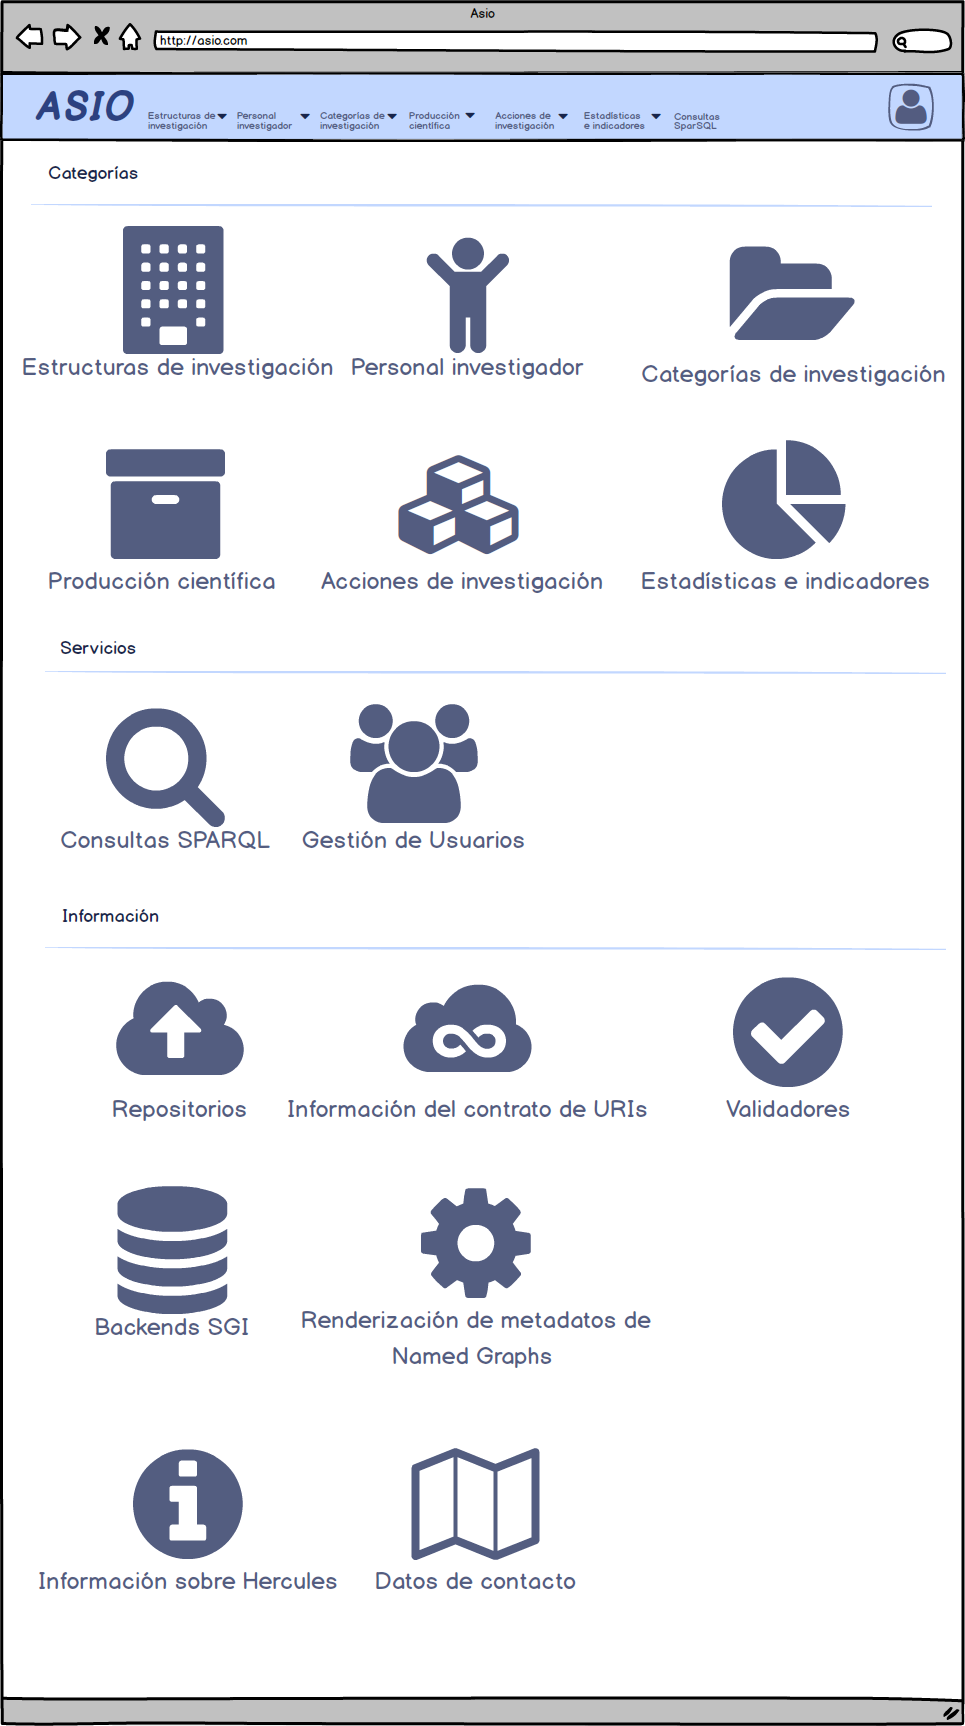
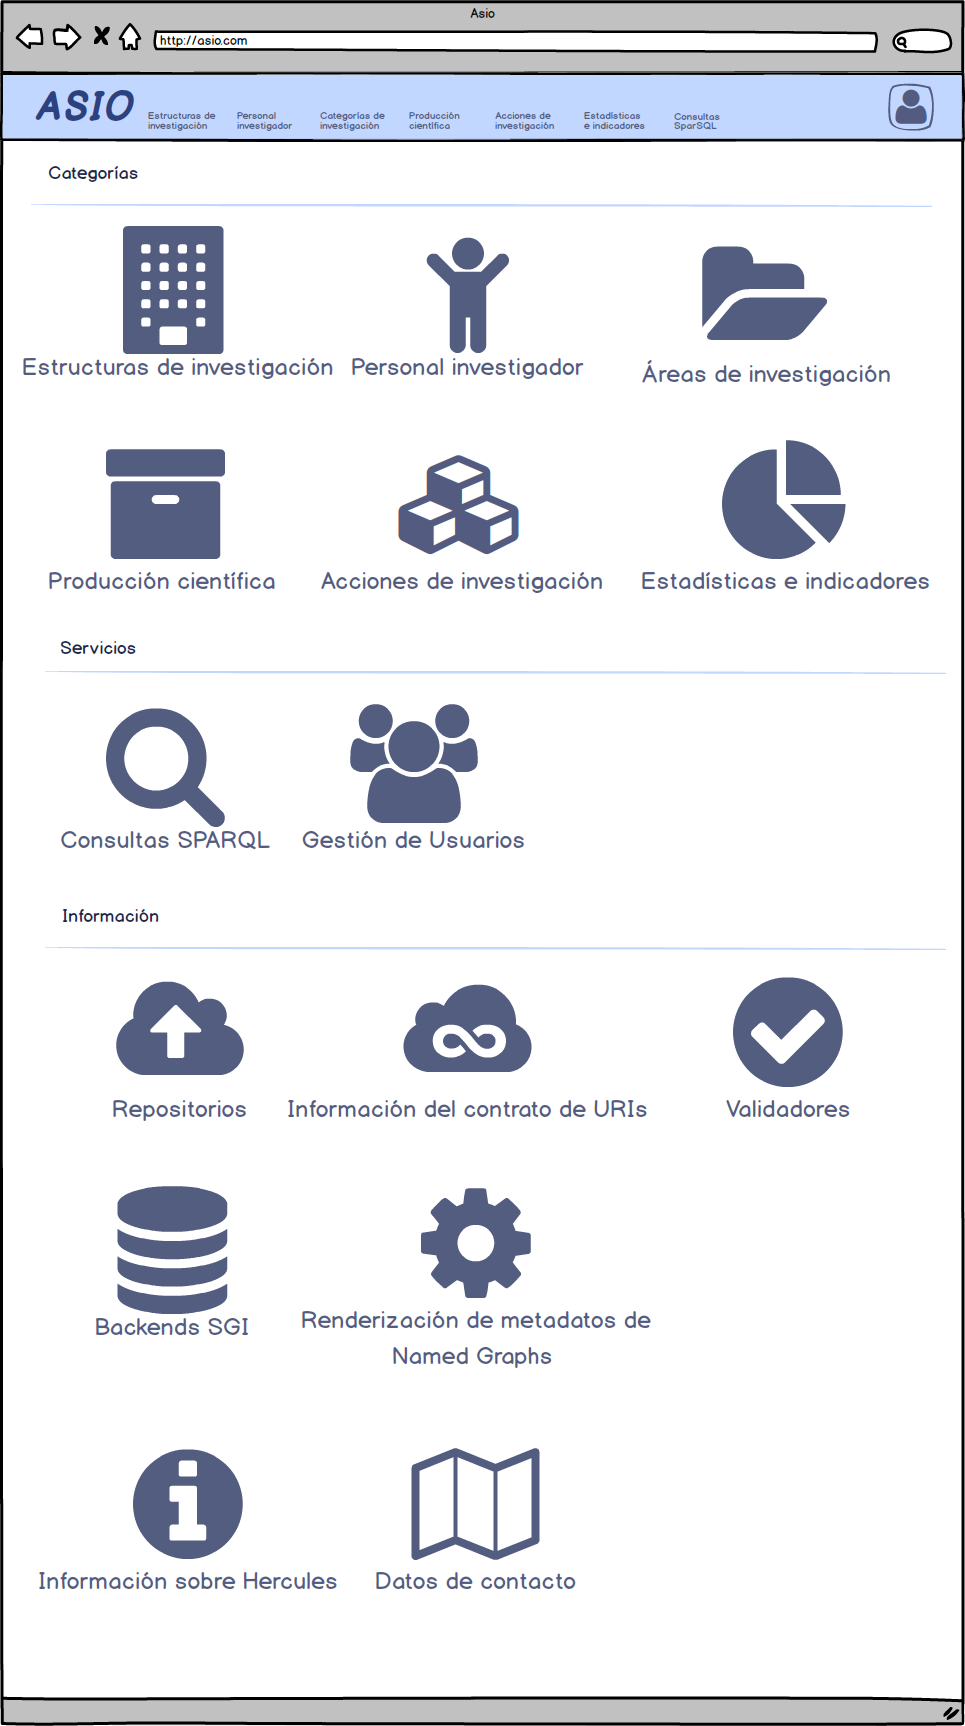
[SEMANTMURC-496] Creación de mocks de pantallas La categoría categorías, se cambia de nombre a areas, ya que por ahora sólo se va a mostrar esto

Changed region(s): [[0.6839, 0.1228, 0.9637, 0.2457]]

diff --git a/00-Análisis/Diseño de pantallas/Categorías y buscador.md b/00-Análisis/Diseño de pantallas/Categorías y buscador.md
@@ -22,9 +22,9 @@
 
 [2.3.1. Detalle de personal investigador](#detalle-de-personal-investigador)
 
-[2.4. Categorías](#categorías)
+[2.4. Áreas](#áreas)
 
-[2.4.1. Detalle de categoría](#detalle-de-categoría)
+[2.4.1. Detalle de área](#detalle-de-área)
 
 [2.5. Producción científica](#producción-científica)
 
@@ -46,11 +46,7 @@ Dentro del propio Home se podrán ver:
     - Fundaciones
     - Organismos
   - Personal investigador
-  - Categorías:
-    - Disciplinas
-    - áreas
-    - Líneas de investigación
-    - Tópicos (topics)
+  - Áreas de investigación
   - Producción científica
     - Congresos
     - Charlas
@@ -365,7 +361,7 @@ Se utilizan las siguientes preguntas de competencia para el diseño de la pantal
 
 
 
-# Categorías
+# Áreas
 
 
 
@@ -375,18 +371,18 @@ Se utilizan las siguientes preguntas de competencia para el diseño de la pantal
 
 Se utilizan las siguientes preguntas de competencia para el diseño de la pantalla:
 
-| Pregunta de competencia                                      |
-| ------------------------------------------------------------ |
-| CQ20. Como usuario necesito detectar tendencias en áreas y líneas investigación a partir de los datos disponibles en Hércules. |
-| CQ08. Como usuario requiero comparar comunidades autónomas, universidades, grupos de investigación, etc. en determinados tópicos para identificar cuál es el más competitivo y por qué. |
-|                                                              |
-|                                                              |
+| Pregunta de competencia                                      | Queries                                                      |
+| ------------------------------------------------------------ | ------------------------------------------------------------ |
+| CQ20. Como usuario necesito detectar tendencias en áreas y líneas investigación a partir de los datos disponibles en Hércules. | [query1](https://tinyurl.com/y8hw5ka4)<br />[query2](https://tinyurl.com/yc6u4kk4) |
+| CQ08. Como usuario requiero comparar comunidades autónomas, universidades, grupos de investigación, etc. en determinados tópicos para identificar cuál es el más competitivo y por qué. |                                                              |
+|                                                              |                                                              |
+|                                                              |                                                              |
 
 
 
 
 
-# Detalle de Categoría
+# Detalle de Área
 
 
 
